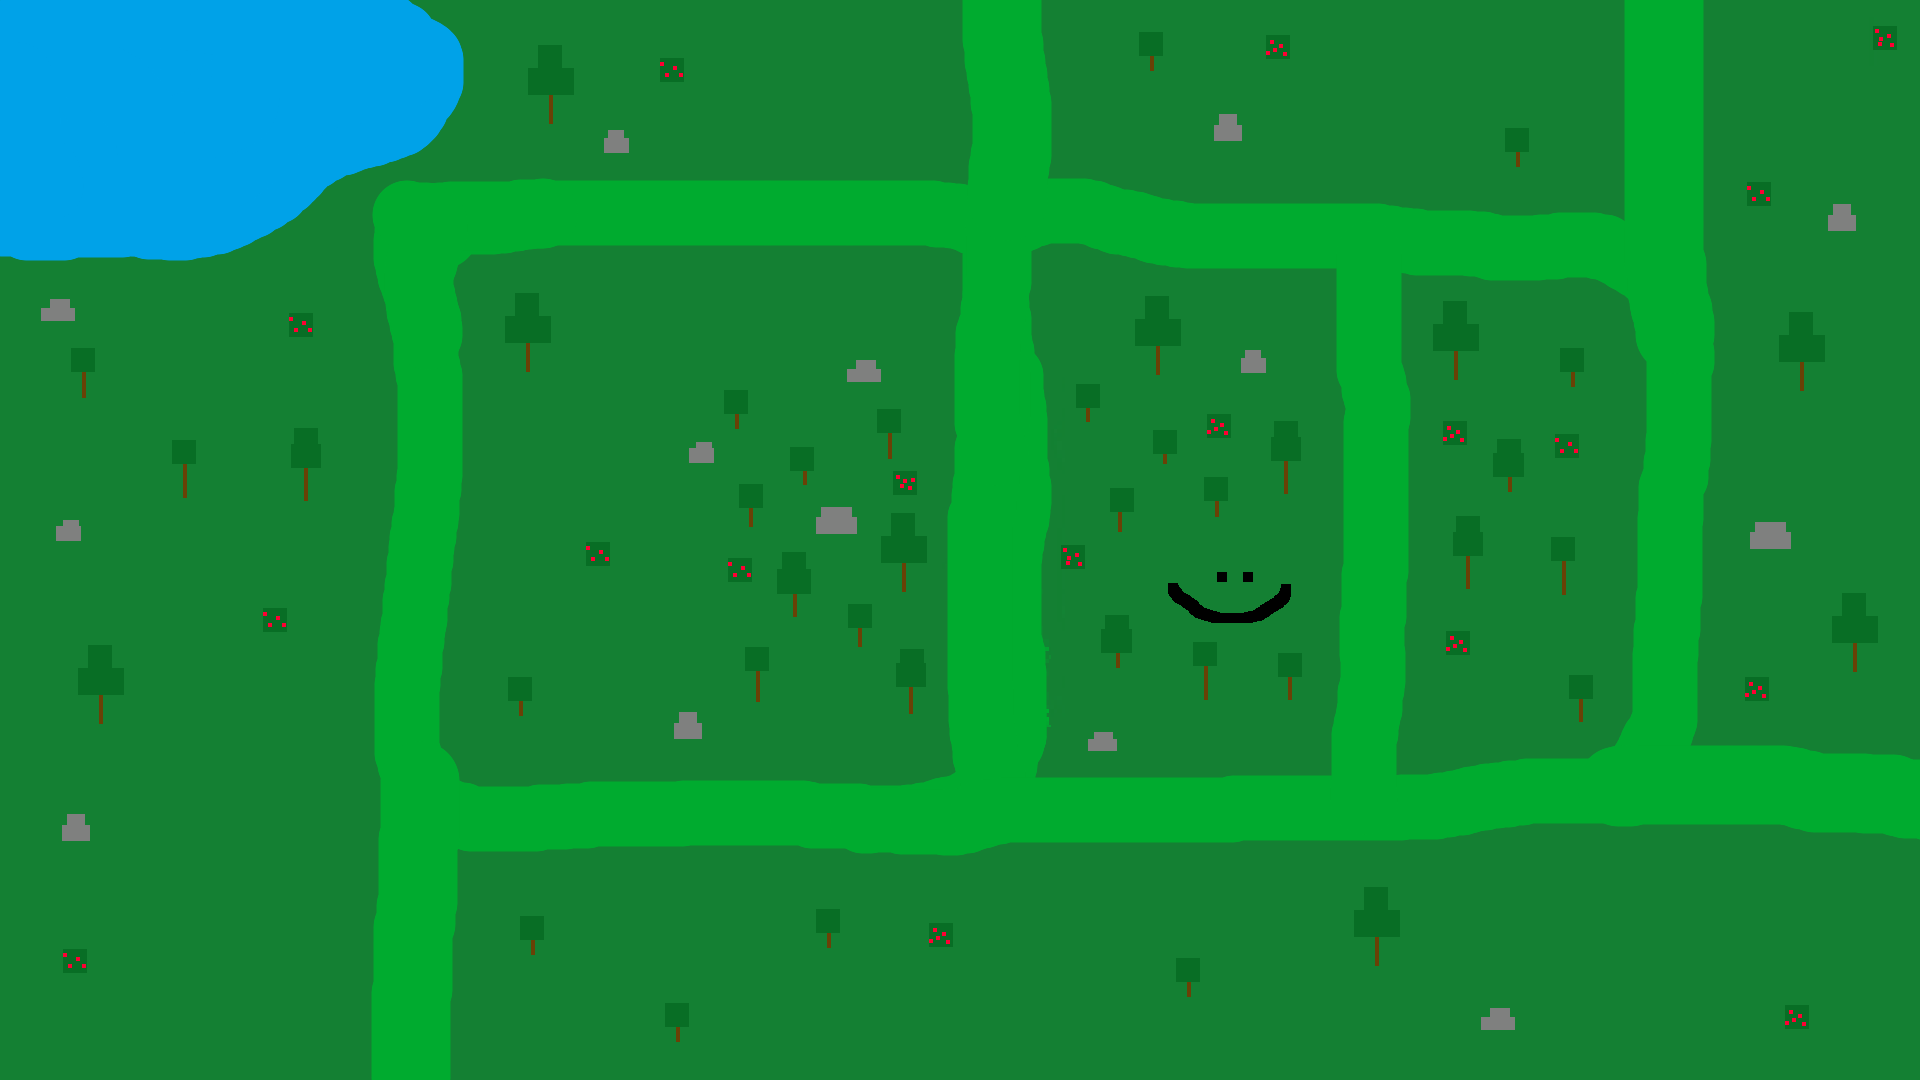
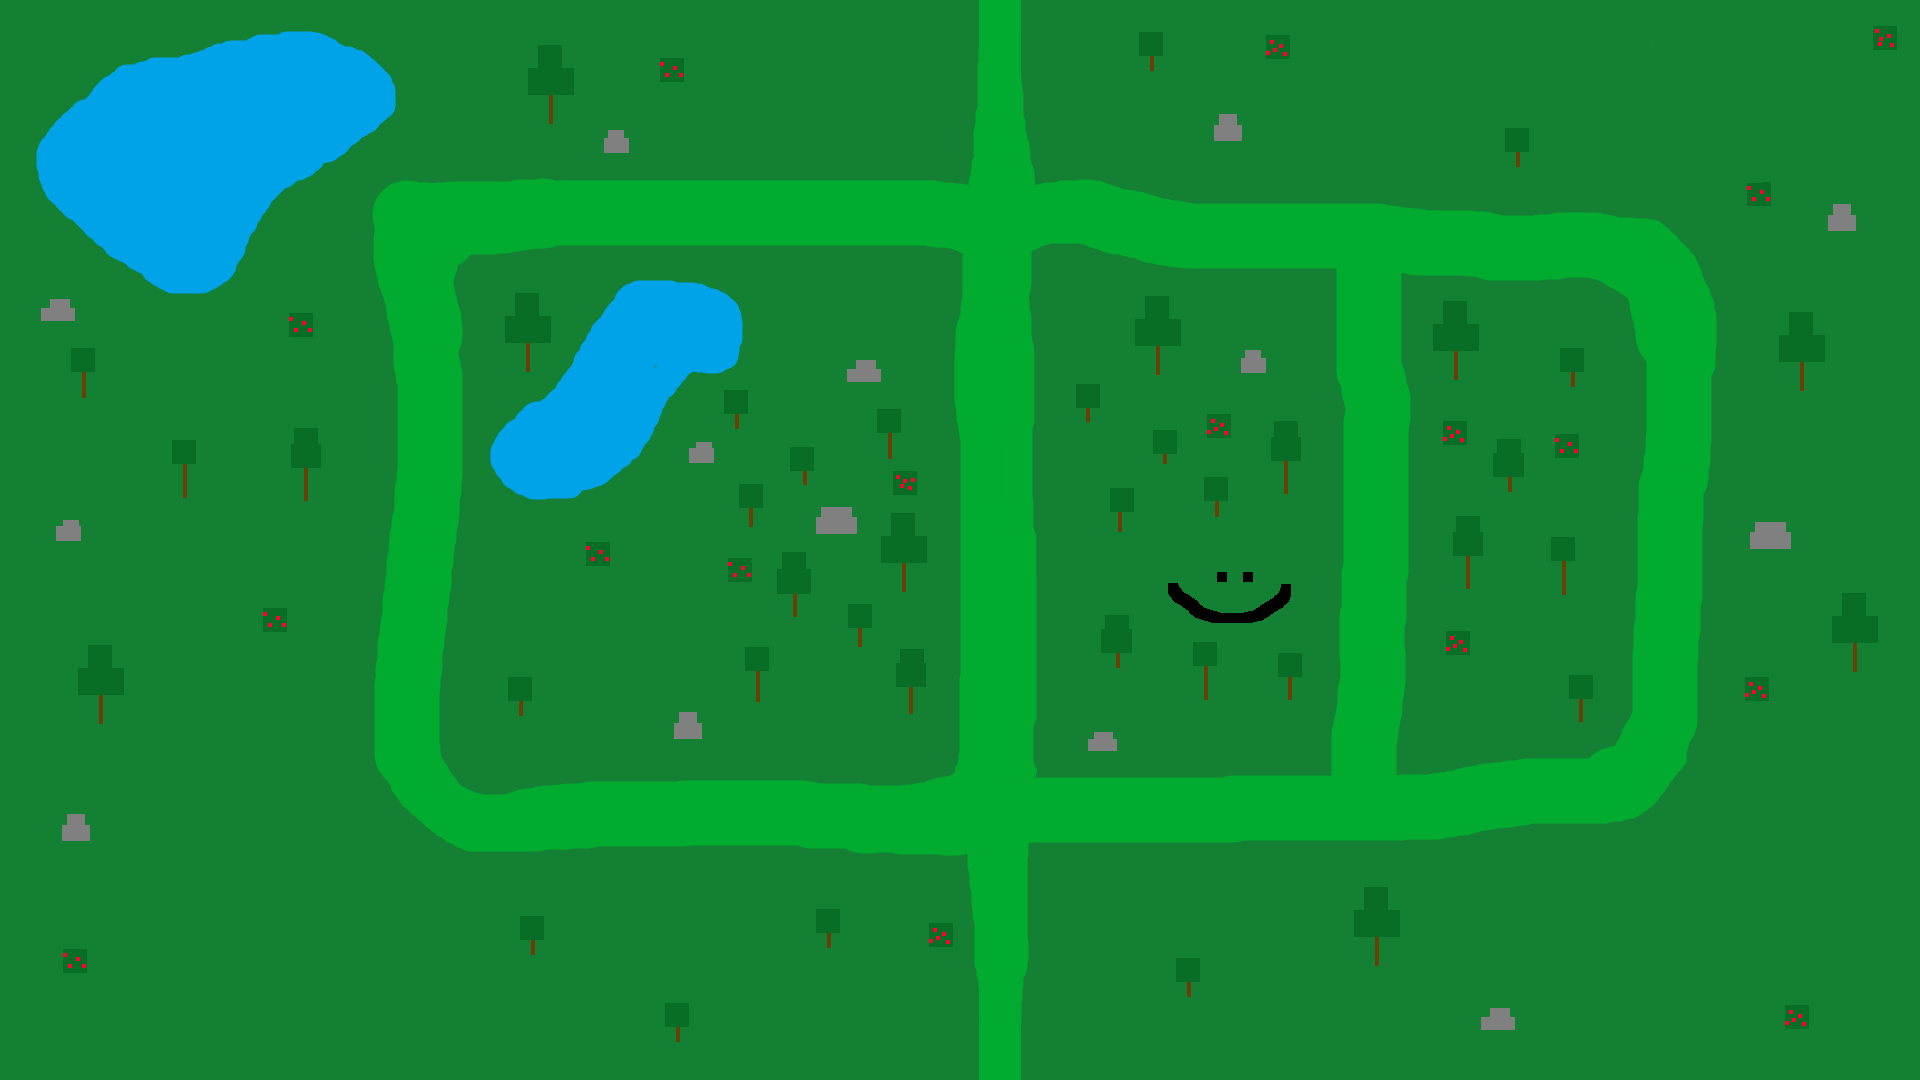
Updated map to accomodate map wrapping

diff --git a/interactions.html b/interactions.html
@@ -7,7 +7,7 @@
     <style>
         body {
             background-image: url("assets/background-1.png");
-            background-repeat: no-repeat;
+            background-repeat: repeat;
             background-size: cover;
             background-position: center;
             background-attachment: fixed;
